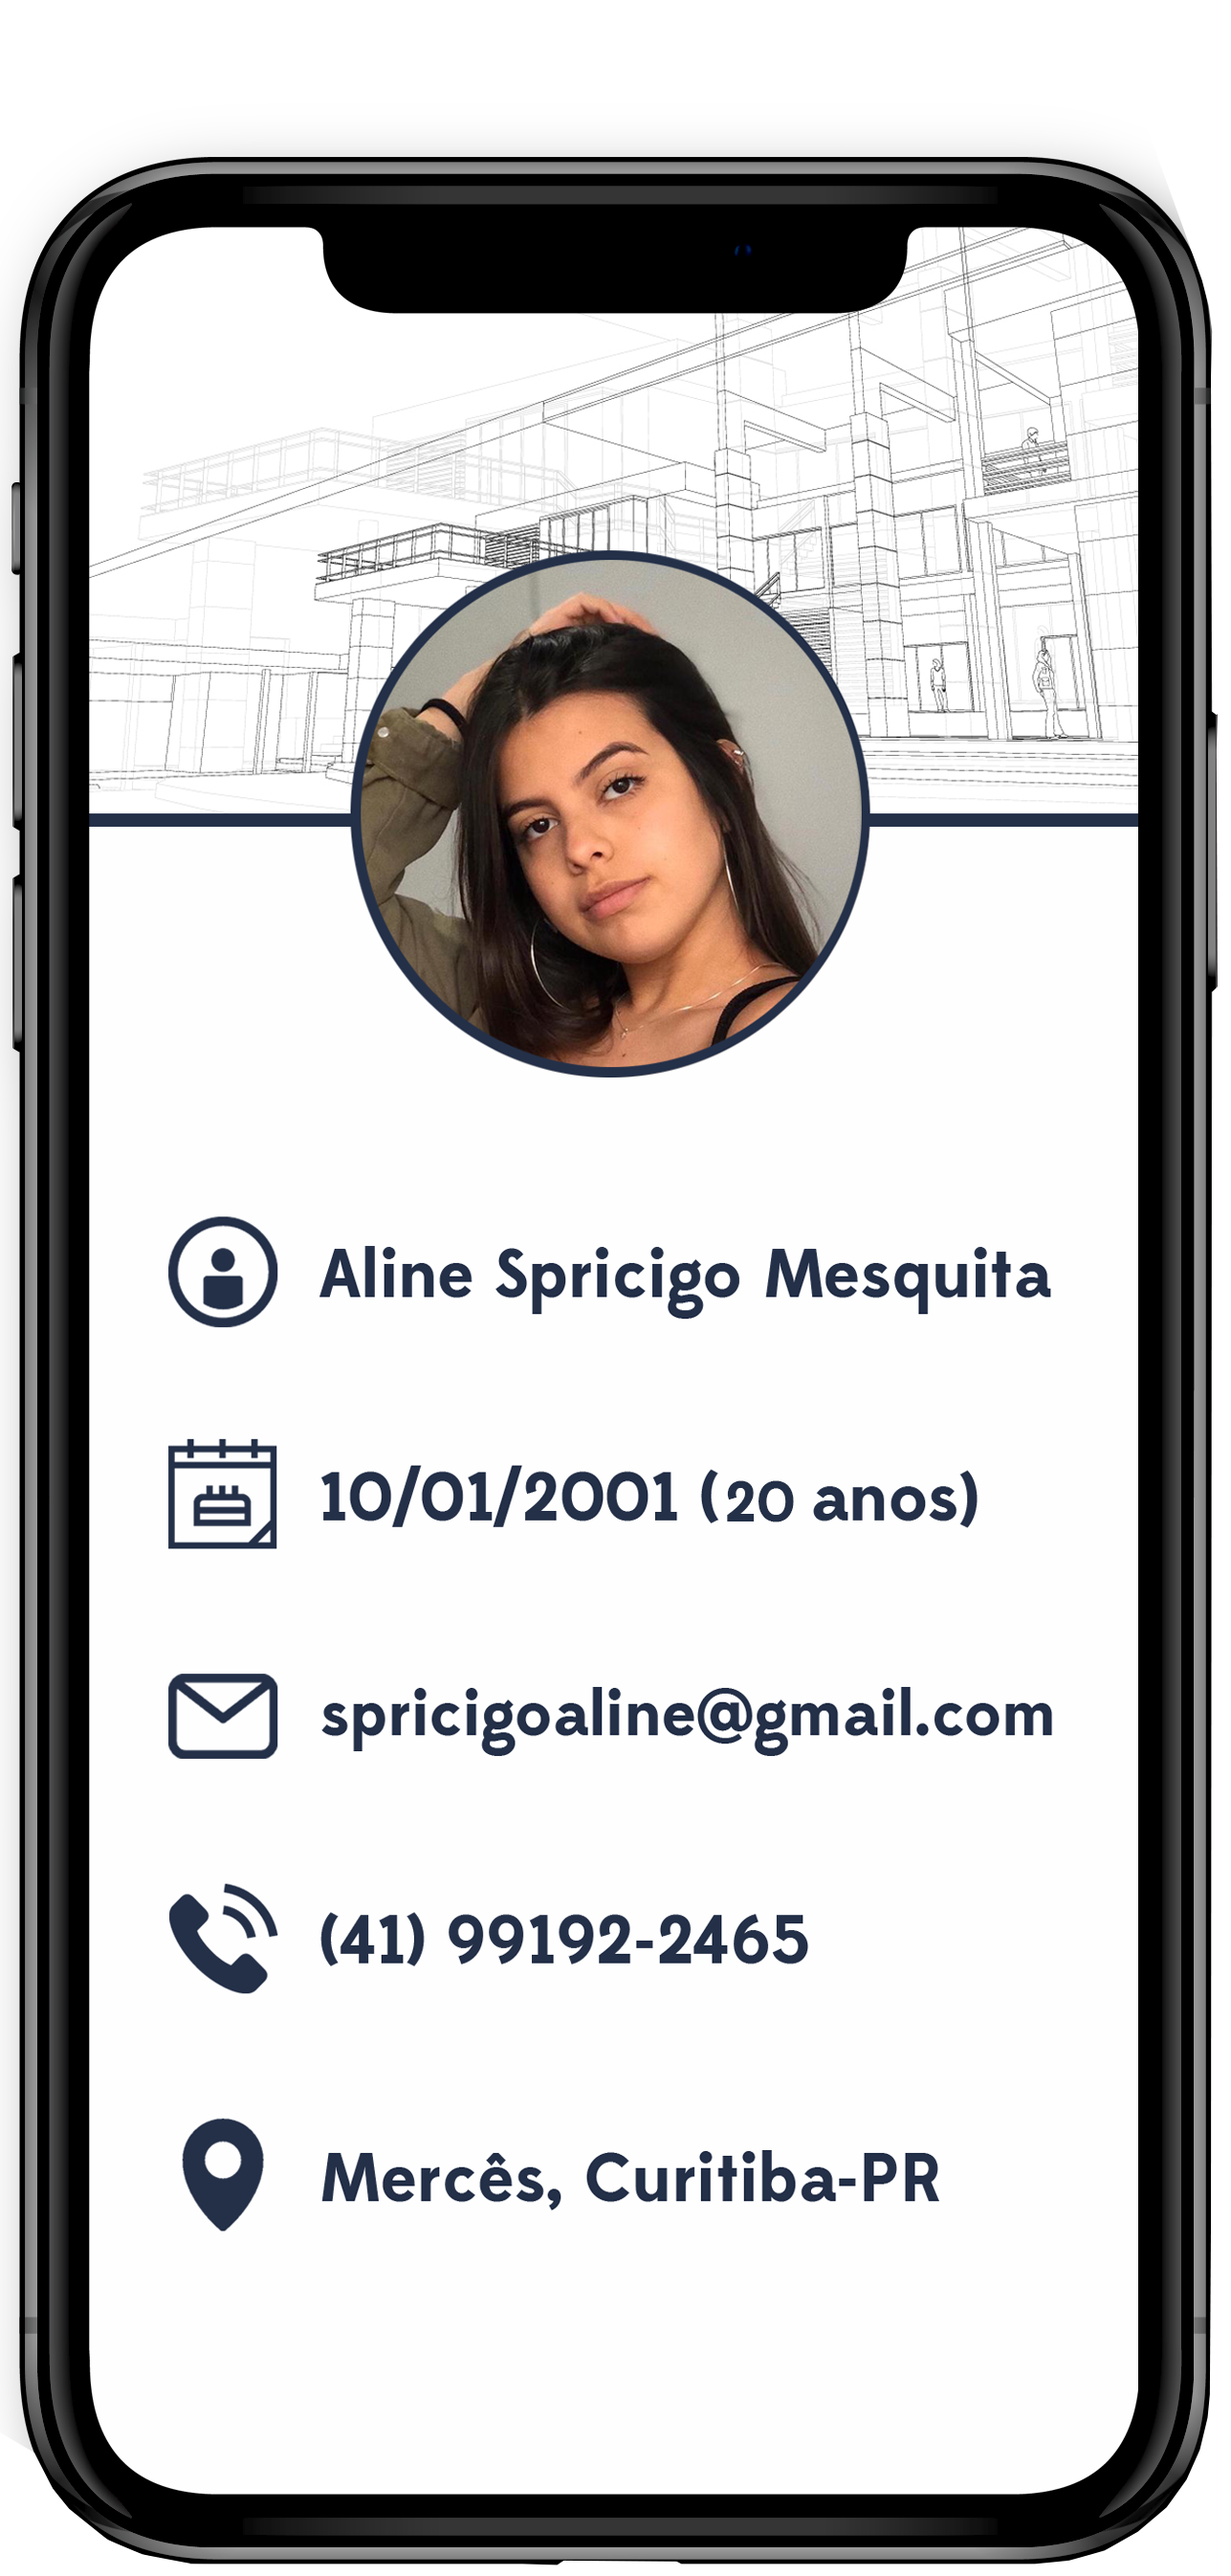
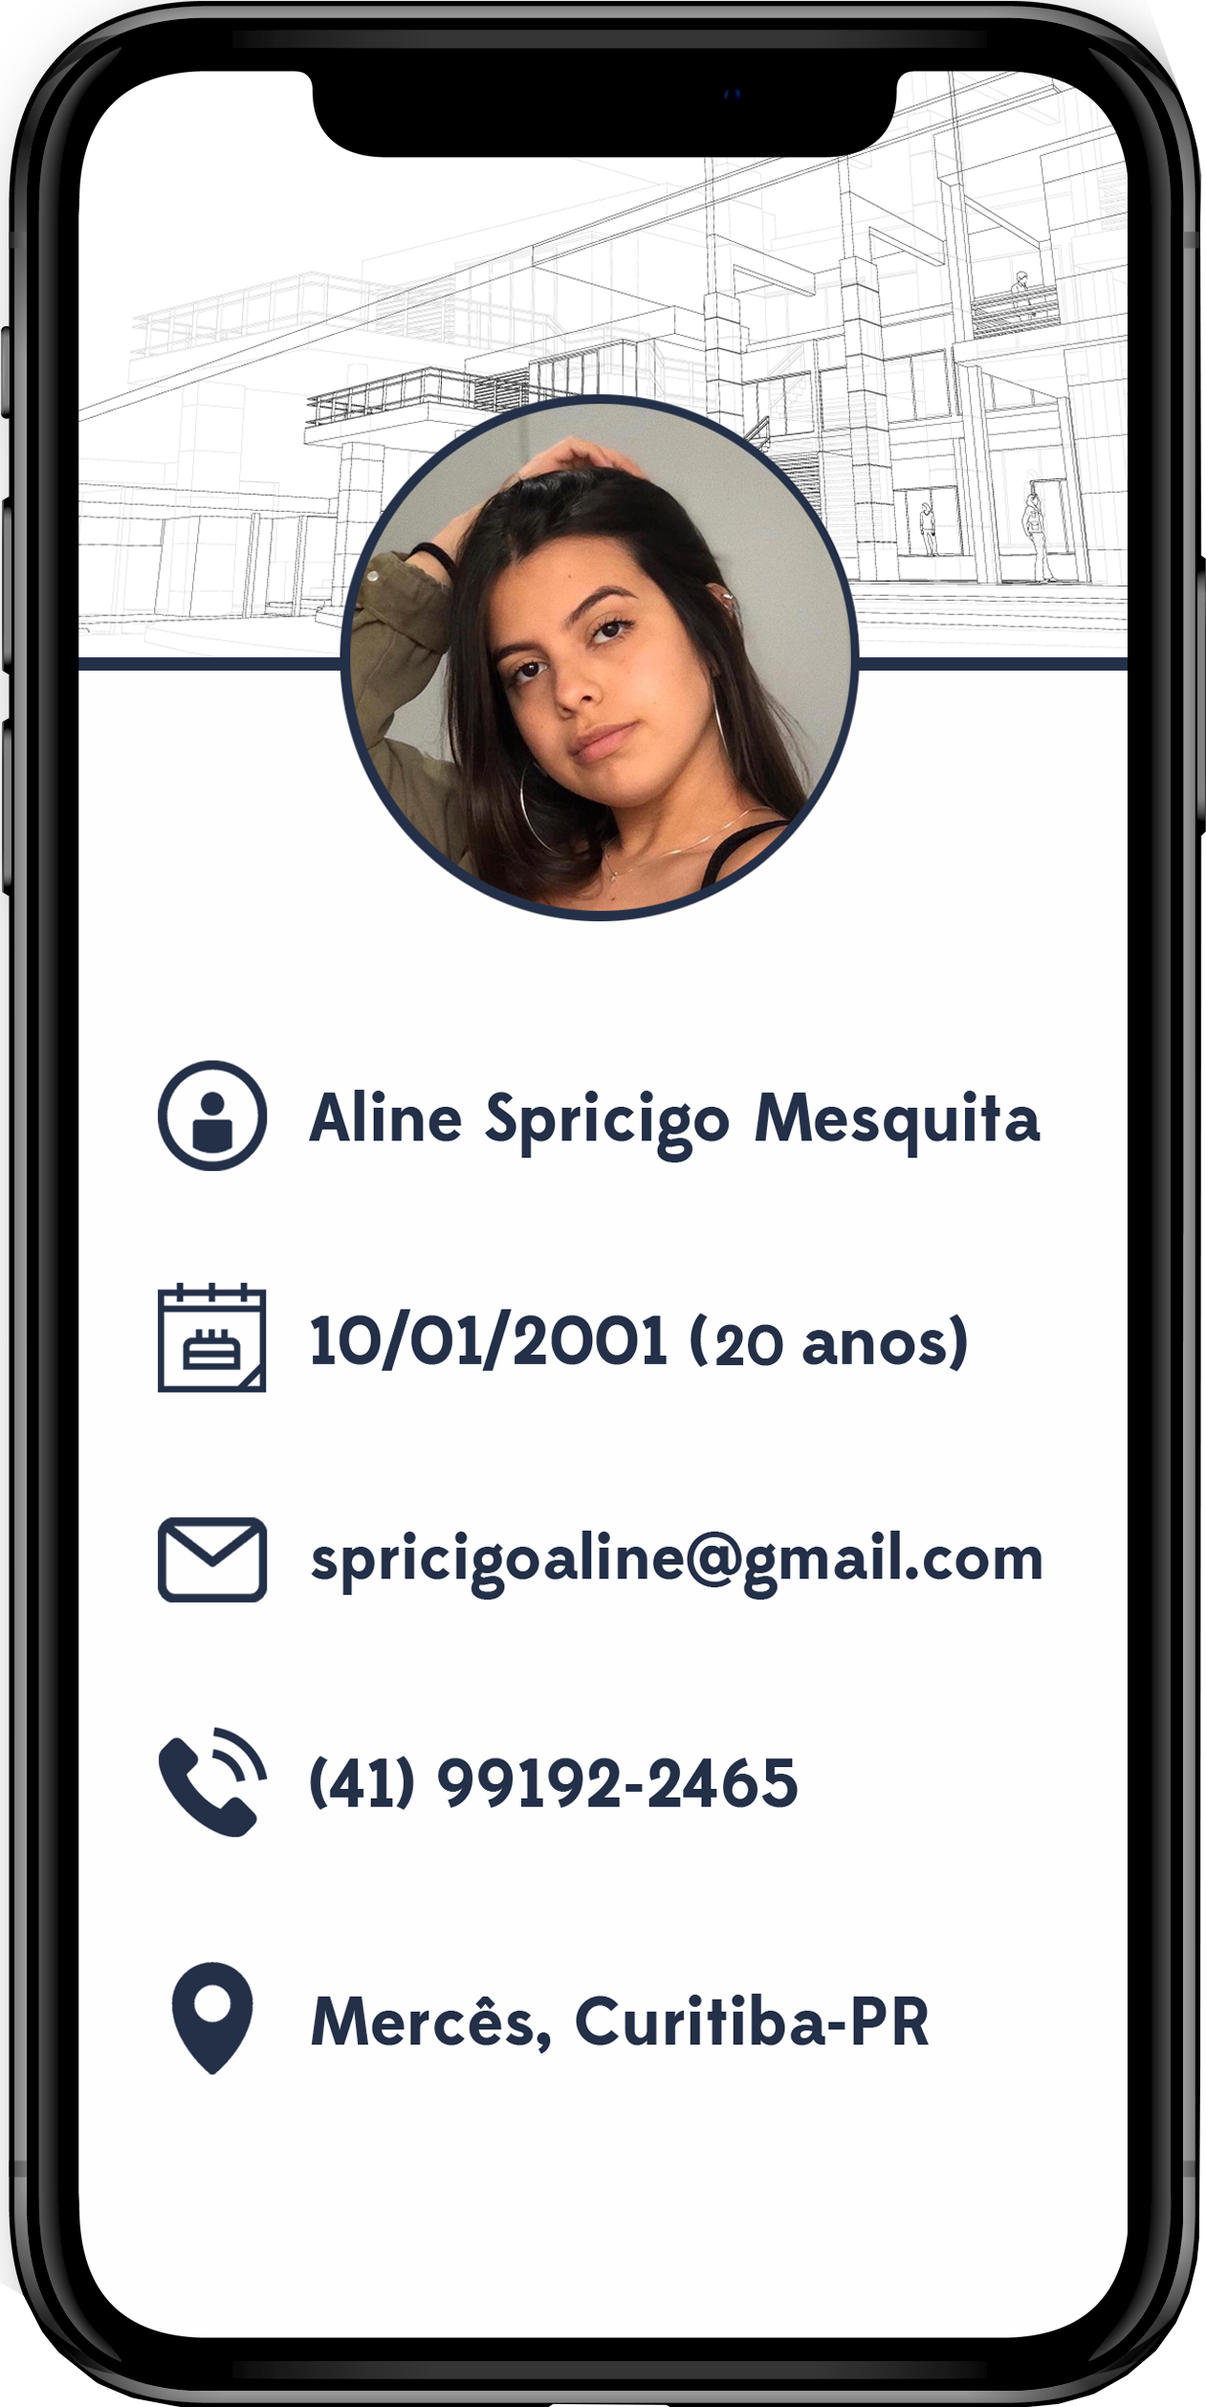
fixing design bugs

diff --git a/css/styles.css b/css/styles.css
@@ -10330,8 +10330,6 @@ form .row:first-child .floating-label-form-group {
   text-align: center;
 }
 
-
-
 .btn-circle {
   width: 90px;
   height: 90px;
@@ -10342,16 +10340,21 @@ form .row:first-child .floating-label-form-group {
 .habtitle, .formtitle{
   color: white;
   letter-spacing: 1.5px;
-  text-shadow: #000 1px 2px 1px;
 }
 
 .habdesc, .formdesc{
   color: white;
-
+}
+ 
+.cellprofile {
+  height: 520px!important;
+  align-items: center;
+  justify-content: center;
 }
 
 .profile-container{
   align-items: center;
+  height: 530px!important;
 }
 
 .lefthab > .hab > .desc {
@@ -10360,6 +10363,17 @@ padding: 0px 15px 0px 0px !important;
 
 .righthab > .hab > .desc {
   padding: 0px 0px 0px 15px !important;
+}
+
+.lefthab, .righthab {
+  height: 420px !important;
+}
+
+.curso{
+  display:flex;
+  align-items: flex-start;
+  justify-content: space-between;
+  height: 210px!important;
 }
 
 .grdnt-black:not(.overly) {

diff --git a/index.html b/index.html
@@ -121,7 +121,7 @@
                     </div>
 
                     <div class="col-12 col-md-3 text-center no-margin no-padding hidden-sm cellprofile grow"
-                        style="display:inline-block;">
+                        style="display:flex;">
                         <img class="masthead-avatar " loading="lazy" src="assets/img/cellprofile.png" alt=""
                             style="width:250px; max-width: 100%;" />
                     </div>
